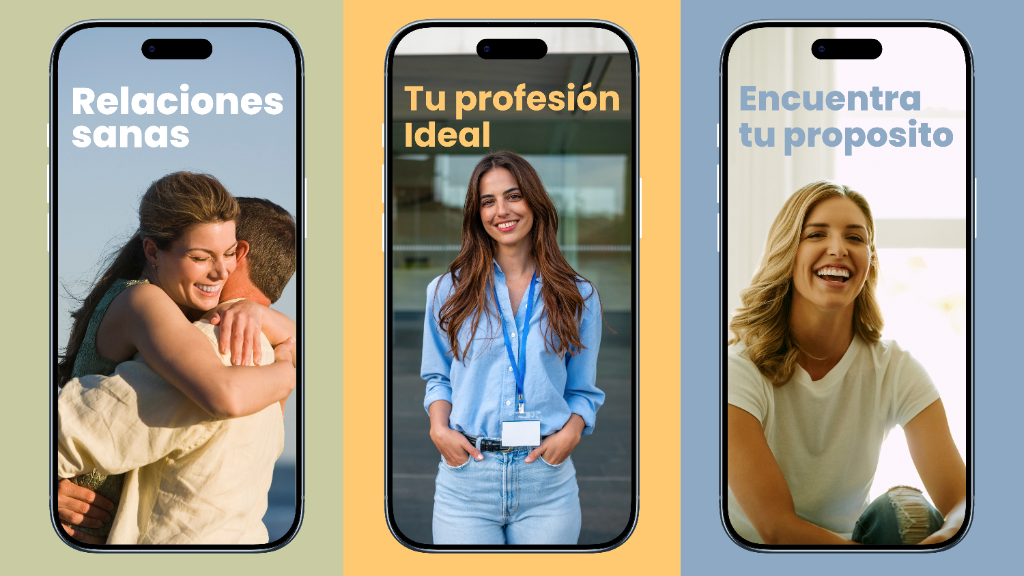
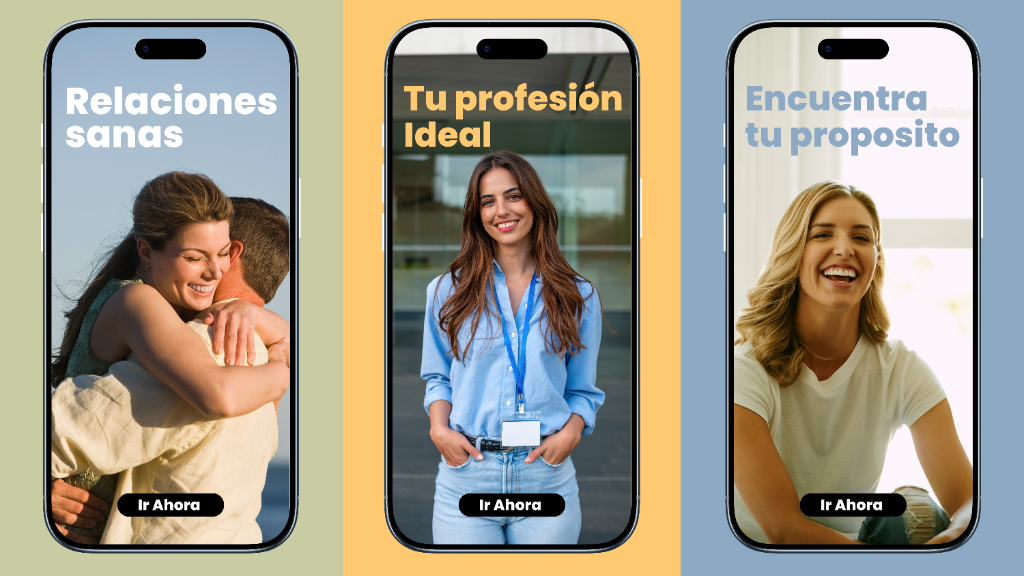
Update PhoneMarqueeSlider: 100% full-width edge-to-edge layout, zero gaps/divisions between slides, no shadows, and updated photos with 'Ir Ahora' buttons

diff --git a/src/components/home/PhoneMarqueeSlider.tsx b/src/components/home/PhoneMarqueeSlider.tsx
@@ -25,11 +25,14 @@ export function PhoneMarqueeSlider() {
     }
   }
 
-  // Duplicate 4 sets so it loops seamlessly from left to right endlessly without empty space
+  // Duplicate 4 sets so it loops seamlessly 100% edge-to-edge from left to right endlessly without any gap
   const marqueeItems = [...slides, ...slides, ...slides, ...slides]
 
   return (
-    <div id="soulmar-brand" className="w-full overflow-hidden py-4 relative group scroll-mt-32">
+    <div
+      id="soulmar-brand"
+      className="w-screen relative left-1/2 right-1/2 -ml-[50vw] -mr-[50vw] overflow-hidden py-0 my-0 group scroll-mt-32"
+    >
       {/* Inline styles for infinite left-to-right marquee animation with pause on hover */}
       <style jsx>{`
         @keyframes marqueeRightPhones {
@@ -41,7 +44,7 @@ export function PhoneMarqueeSlider() {
           }
         }
         .animate-marquee-phones {
-          animation: marqueeRightPhones 32s linear infinite;
+          animation: marqueeRightPhones 35s linear infinite;
           will-change: transform;
         }
         .animate-marquee-phones:hover {
@@ -49,19 +52,15 @@ export function PhoneMarqueeSlider() {
         }
       `}</style>
 
-      {/* Premium subtle gradient fade edges */}
-      <div className="absolute left-0 top-0 bottom-0 w-12 sm:w-28 z-10 bg-gradient-to-r from-surface dark:from-[#0b0b0c] to-transparent pointer-events-none" />
-      <div className="absolute right-0 top-0 bottom-0 w-12 sm:w-28 z-10 bg-gradient-to-l from-surface dark:from-[#0b0b0c] to-transparent pointer-events-none" />
-
-      {/* Sliding track */}
-      <div className="flex gap-6 sm:gap-10 w-max animate-marquee-phones">
+      {/* Edge-to-Edge Sliding track with 0px gap between images */}
+      <div className="flex gap-0 w-max animate-marquee-phones">
         {marqueeItems.map((item, idx) => (
           <Link
             key={`${item.id}-${idx}`}
             href="/#agendamiento"
             onClick={handleScrollToBooking}
             aria-label="Agendar cita en Soulmar"
-            className="block relative flex-shrink-0 cursor-pointer transition-transform duration-300 hover:scale-[1.015] shadow-xl rounded-3xl overflow-hidden group/item"
+            className="block relative flex-shrink-0 cursor-pointer p-0 m-0 border-0 outline-none"
           >
             <Image
               src={item.src}
@@ -70,7 +69,7 @@ export function PhoneMarqueeSlider() {
               height={576}
               quality={100}
               unoptimized={true}
-              className="w-[500px] sm:w-[750px] lg:w-[960px] xl:w-[1024px] h-auto object-contain rounded-3xl"
+              className="w-[100vw] sm:w-[50vw] h-auto block object-cover p-0 m-0 border-0"
               priority={idx < 2}
             />
           </Link>